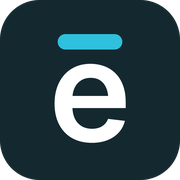
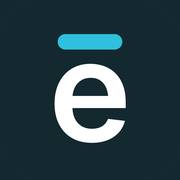
Imagem do link compartilhado sem as bordas brancas
O WhatsApp usava o apple-touch-icon.png, que tinha cantos arredondados
transparentes; a prévia do link pinta a transparência de branco.

- apple-touch-icon.png passa a ser quadrado cheio, sem transparência (o iOS
  arredonda os cantos sozinho). O desenho é o mesmo.
- og-image.png (512 x 512, quadrado cheio) e as marcações Open Graph na página
  inicial, para a prévia não depender do ícone de tela inicial.
- Teste: as duas imagens são servidas sem login, sem canal de transparência e
  com os quatro cantos na cor de fundo da marca.

Claude-Session: https://claude.ai/code/session_01BLAV8zVSDbPUpcHtGU4fBW

diff --git a/index.html b/index.html
@@ -5,6 +5,15 @@
 <meta name="viewport" content="width=device-width, initial-scale=1.0">
 <title>Evidēns — check-up baseado em evidência</title>
 <meta name="description" content="Recomendações de rastreamento, exames e vacinas para o adulto, a partir de diretrizes, para apoiar a decisão do médico.">
+<meta property="og:type" content="website">
+<meta property="og:site_name" content="Evidēns">
+<meta property="og:title" content="Evidēns — check-up baseado em evidência">
+<meta property="og:description" content="Recomendações de rastreamento, exames e vacinas para o adulto, a partir de diretrizes, para apoiar a decisão do médico.">
+<meta property="og:url" content="https://evidens.life/">
+<meta property="og:image" content="https://evidens.life/og-image.png">
+<meta property="og:image:width" content="512">
+<meta property="og:image:height" content="512">
+<meta name="twitter:card" content="summary">
 <script src="/static/i18n.js"></script>
 <link rel="icon" href="/favicon.ico?v=2" sizes="32x32">
 <link rel="icon" href="/favicon.svg?v=2" type="image/svg+xml">

diff --git a/tests/test_site.py b/tests/test_site.py
@@ -390,6 +390,24 @@ def test_logo_do_cabecalho_e_a_mesma_palavra_do_rodape(pagina):
     assert 'text-[28px] font-medium tracking-tight">evidēns' in rodape
 
 
+def test_imagem_de_compartilhamento_e_quadrada_cheia_sem_transparencia(anonimo):
+    """WhatsApp e afins pintam de branco o que for transparente: canto arredondado vira borda branca.
+    A imagem do link e o ícone de tela inicial são quadrados cheios, na cor de fundo da marca."""
+    import io
+    from PIL import Image
+    pagina = (RAIZ / 'index.html').read_text(encoding='utf-8')
+    assert '<meta property="og:image" content="https://evidens.life/og-image.png">' in pagina
+    assert '<meta property="og:title" content="Evidēns — check-up baseado em evidência">' in pagina
+    for caminho, lado in (('/og-image.png', 512), ('/apple-touch-icon.png', 180)):
+        resposta = anonimo.get(caminho)            # o robô do WhatsApp não tem login
+        assert resposta.status_code == 200 and resposta.mimetype == 'image/png', caminho
+        imagem = Image.open(io.BytesIO(resposta.data))
+        assert imagem.size == (lado, lado), caminho
+        assert imagem.mode == 'RGB', f'{caminho}: sem canal de transparência'
+        cantos = [imagem.getpixel(p) for p in ((0, 0), (lado - 1, 0), (0, lado - 1), (lado - 1, lado - 1))]
+        assert cantos == [(20, 41, 47)] * 4, caminho
+
+
 def test_icone_da_aba_e_servido(client):
     for caminho in ('/favicon.ico', '/favicon.png', '/favicon.svg', '/apple-touch-icon.png'):
         assert client.get(caminho).status_code == 200, caminho

diff --git a/api/index.py b/api/index.py
@@ -154,6 +154,7 @@ ARQUIVOS_PUBLICOS = frozenset({
     'favicon.png',
     'favicon.svg',
     'apple-touch-icon.png',
+    'og-image.png',
     'new_logo.png',
     'evidenscheck.png',
     'evidenscheck.svg',
